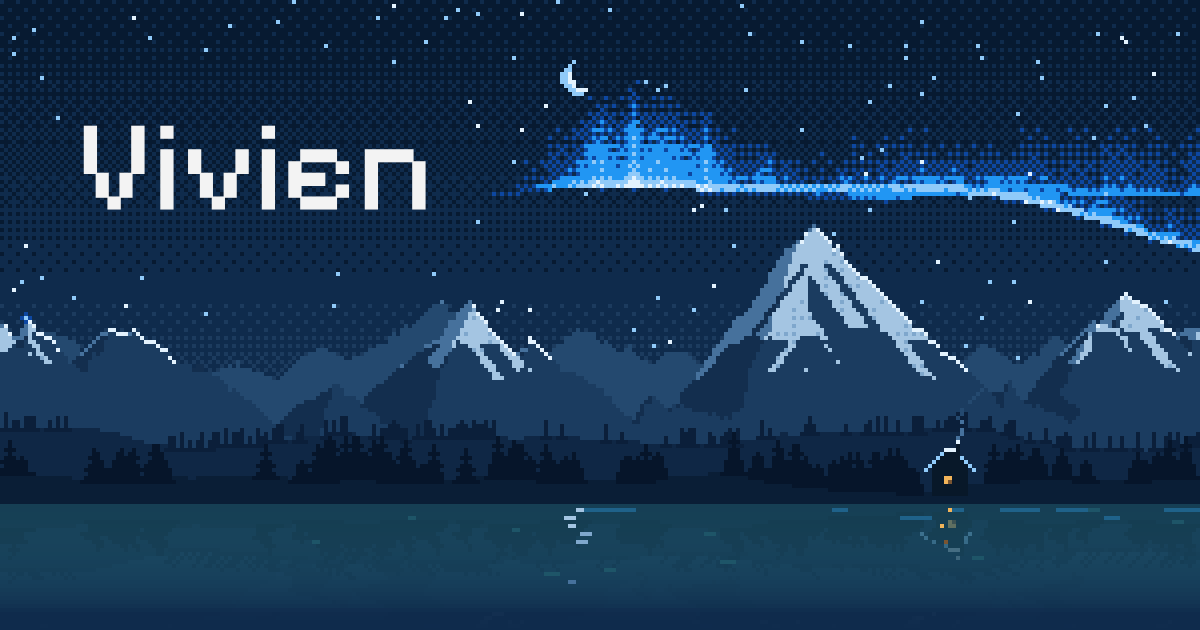
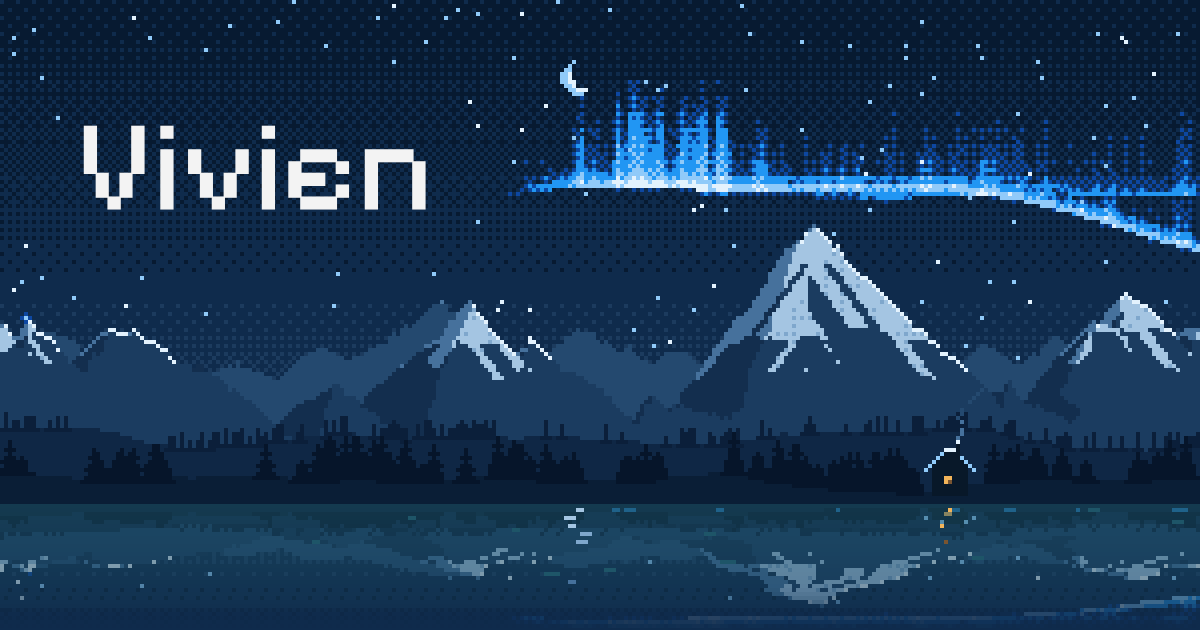
Redraw the aurora, the fjord's mirror and the shore's snow
- Aurora: curtains hung with fine vertical rays that drift along the
  folds, a brighter two-pixel hem, each ray's height following its
  brightness, instead of a dithered haze.
- Fjord: on wide screens the mirror folds its rows tighter so the
  peaks and their snow reach the shallow water, and the reflection
  holds its strength before fading into the page colour.
- Shore: low rolling drifts shaded in clean bands with dithered seams,
  a lit lower drift crest here and there, pines seated on the drift
  beneath them with a short moon shadow, instead of one flat slab.
- Regenerated og.png; DESIGN.md records all three.

Claude-Session: https://claude.ai/code/session_01W1WJo8FCiKhhtBsWrrJKbP

diff --git a/scene.js b/scene.js
@@ -326,11 +326,12 @@
           + Math.sin(u * 6.0 + t * 0.3 + k * 2) * horizon * 0.08
           + Math.sin(u * 17.0 - t * 0.6) * horizon * 0.02;
         bottom[x] = bt;
-        // broad folds that sway slowly, with a faint fine shimmer; brighter folds reach higher
+        // a curtain: broad folds that sway slowly, hung with fine vertical rays that drift along
+        // them; a bright ray reaches higher, so the top edge is a comb of streaks, not a haze
         const fold = nRay(u * 7 + t * 0.12 + k * 90);
-        const streak = 0.45 + 0.55 * Math.pow(nRay(x * 0.38 + t * 0.25 + k * 30), 1.5);
-        rays[x] = (0.4 + 0.6 * fold) * streak;
-        len[x] = horizon * (0.1 + 0.2 * fold);
+        const ray = Math.pow(nRay(x * 0.55 + t * 0.35 + k * 30), 2.2);
+        rays[x] = (0.35 + 0.65 * fold) * (0.3 + 0.7 * ray);
+        len[x] = horizon * (0.05 + (0.1 + 0.17 * fold) * (0.25 + 0.75 * Math.sqrt(ray)));
         if (bt - horizon * 0.4 < aurTop) aurTop = bt - horizon * 0.4;
         if (bt + 1 > aurBot) aurBot = bt + 1;
       }
@@ -346,9 +347,10 @@
       if (d < -1 || d > horizon * 0.4) continue;
       const len = aurCols.len[k][x];
       // light pools at the hem and thins upward, so the top dissolves into the sky
-      const prof = d < 0 ? 0.45 : Math.max(0, 1 - d / len);
-      const hem = d >= 0 && d < 2 ? 0.3 : 0;
-      const v = env * (aurCols.rays[k][x] * Math.pow(prof, 1.6) + hem) * (k === 0 ? 0.9 : 0.55);
+      const prof = d < 0 ? 0.4 : Math.max(0, 1 - d / len);
+      // the lower hem is the brightest line of the curtain, one step brighter than its rays
+      const hem = d >= 0 && d < 2 ? 0.45 : d >= 2 && d < 4 ? 0.15 : 0;
+      const v = env * (aurCols.rays[k][x] * Math.pow(prof, 1.1) + hem) * (k === 0 ? 0.9 : 0.55);
       if (v > best) best = v;
     }
     return best;
@@ -380,11 +382,13 @@
 
     // the fjord: a rippling mirror, fjord-tinted, settling into the page colour
     const depthRows = H - horizon;
+    const mirror = Math.max(1.15, (horizon * 0.6) / (depthRows * 0.85));
     for (let y = horizon; y < H; y++) {
       const d = (y - horizon) / depthRows;
       const wob = Math.round(Math.sin((y - horizon) * 0.9 + t * 1.8) * (0.6 + d * 2.2));
-      const sy = Math.max(0, horizon - 1 - Math.round((y - horizon) * 1.15));
-      const fade = (horizon < H * 0.7 ? 0.3 : 0.4) * Math.pow(1 - d, 1.5);
+      // a shallow fjord (wide screens) folds the mirror tighter so the peaks still reach it
+      const sy = Math.max(0, horizon - 1 - Math.round((y - horizon) * mirror));
+      const fade = horizon < H * 0.7 ? 0.32 * Math.pow(1 - d, 1.1) : 0.5 * (1 - smooth(0.6, 1, d));
       const tint = Math.pow(Math.max(0, 1 - d / 0.82), 0.6);
       const f1 = 1 - fade;
       const wr = (C.deep[0] + (C.fjord[0] - C.deep[0]) * tint) * f1;
@@ -457,29 +461,51 @@
     const sctx = shoreCanvas.getContext("2d", { alpha: false });
     const im = sctx.createImageData(sw, sh);
     const b = new Uint32Array(im.data.buffer);
-    const ground = [];
-    for (let x = 0; x < sw; x++) ground[x] = Math.round(sh * 0.72 - fbm(nNear, x * 0.03 + 200, 3) * sh * 0.18);
-    // page field above, a low snowbank, pines standing in it
+    // the bank rolls in low drifts; a second, lower crest catches the light here and there
+    const ground = [], crest = [];
+    for (let x = 0; x < sw; x++) {
+      ground[x] = Math.round(sh * 0.7 - fbm(nNear, x * 0.045 + 200, 3) * sh * 0.16 - Math.sin(x * 0.11) * 1.2);
+      crest[x] = ground[x] + 4 + Math.round(fbm(nSnow, x * 0.07 + 30, 2) * (sh - ground[x]) * 0.5);
+    }
+    const SNOW = [C.snowLit, C.snowMid, C.snowShade];
+    // page field above, a ridge-blue back hill, the snowbank
     for (let y = 0; y < sh; y++) for (let x = 0; x < sw; x++) {
       let c = C.deep;
       const hill = Math.round(sh * 0.5 - fbm(nMid, x * 0.02 + 90, 3) * sh * 0.22);
       if (y >= hill) c = C.ridge;
-      if (y >= ground[x]) c = y - ground[x] < 1 ? C.frost : C.snowLit;
-      if (y >= ground[x] + 3) c = C.snowMid;
-      if (y >= ground[x] + 6) c = C.snowShade;
+      const g = y - ground[x];
+      if (g >= 0) {
+        // moonlit on top, shading in clean bands into the night toward the foot of the page;
+        // only the seams between bands are dithered
+        const v = Math.pow((g - 1) / Math.max(1, sh - ground[x] - 1), 0.8) * 3.2;
+        c = g === 0 ? C.frost : SNOW[Math.max(0, Math.min(2, Math.floor(v + (dither(x, y) - 0.5) * 0.3)))];
+        // the drift crest: a lit lip, a shaded fall below it
+        const cr = y - crest[x];
+        if (crest[x] < sh - 2 && fbm(nSnow, x * 0.09 + 5, 2) > 0.48) {
+          if (cr === 0) c = C.snowLit;
+          else if (cr === 1 || (cr === 2 && dither(x, y) > 0.5)) c = C.snowShade;
+        }
+      }
       b[y * sw + x] = pack(c);
     }
+    // pines standing in the snow, each casting a short moon shadow down-slope to its right
     const r = rng(77);
     for (let x = 1; x < sw - 1; x++) {
       if (r() > 0.1 + 0.5 * smooth(0.35, 0.7, fbm(nNear, x * 0.05 + 9, 2))) continue;
       const h = 5 + Math.floor(r() * sh * 0.4);
       const top = ground[x] + 1 - h;
+      for (let dx = 2; dx < 2 + Math.round(h * 0.35); dx++) {
+        const px = x + dx;
+        if (px < sw && b[ground[px] * sw + px] === pack(C.frost)) b[ground[px] * sw + px] = pack(C.snowShade);
+      }
       for (let k = 0; k <= h; k++) {
         const hw = Math.floor((k / h) * 3 + ((k % 3) === 0 ? 0 : 0.6));
         for (let dx = -hw; dx <= hw; dx++) {
-          const px = x + dx, py = top + k;
-          if (px < 0 || px >= sw || py < 0 || py >= sh) continue;
-          b[py * sw + px] = pack(C.pine);
+          const px = x + dx;
+          if (px < 0 || px >= sw) continue;
+          // the skirt reaches down to the drift under it, so no tree floats over a hollow
+          const y1 = k === h ? Math.max(top + k, ground[px]) : top + k;
+          for (let py = top + k; py <= y1 && py < sh; py++) if (py >= 0) b[py * sw + px] = pack(C.pine);
         }
       }
     }

diff --git a/index.html b/index.html
@@ -12,7 +12,7 @@
   <meta property="og:site_name" content="Vivien">
   <meta property="og:description" content="Mechanical engineer, formerly a musician and programmer.">
   <meta property="og:url" content="https://meowzerskittycat.github.io/">
-  <meta property="og:image" content="https://meowzerskittycat.github.io/og.png?v=94efaa53">
+  <meta property="og:image" content="https://meowzerskittycat.github.io/og.png?v=315dd00a">
   <meta property="og:image:type" content="image/png">
   <meta property="og:image:width" content="1200">
   <meta property="og:image:height" content="630">

diff --git a/DESIGN.md b/DESIGN.md
@@ -197,7 +197,7 @@ Square and hard-edged throughout (`rounded.none`). Both canvases render with `im
 The page has no buttons, inputs, navigation, or cards, by product decision (no links). The recurring pieces are scene, type, the ledger, and pixel marks.
 
 ### Pixel Night Scene (signature)
-- **What:** a full-bleed canvas in the hero, drawn procedurally from fixed seeds so every visit shows the same place: stars, a crescent moon, two drifting aurora curtains (broad slow folds with faint vertical streaks, brightest at a lit hem, dissolving upward into the sky through dither so the top never forms a hard spiky edge), a hazy back range, an alpine range with one tall horn, shouldered peaks, an uneven snowline, rock ribs and snow couloirs, forested foothills with a comb of small pines, a pine shore, one cabin with roof snow, a lit window and a chimney, and the reflecting fjord. The sky is clear: no snow falls in the hero, so nothing crosses the name.
+- **What:** a full-bleed canvas in the hero, drawn procedurally from fixed seeds so every visit shows the same place: stars, a crescent moon, two drifting aurora curtains (broad slow folds hung with fine vertical rays that drift along them, brightest at a lit two-pixel hem; each ray's height follows its brightness, so the top reads as a comb of streaks thinning into the sky through dither rather than a haze), a hazy back range, an alpine range with one tall horn, shouldered peaks, an uneven snowline, rock ribs and snow couloirs, forested foothills with a comb of small pines, a pine shore, one cabin with roof snow, a lit window and a chimney, and the reflecting fjord: a mirror of the whole range, its rows folded tighter on wide screens (where the fjord is shallow) so the peaks and their snow still reach the water, fading into the page colour by the hero's foot. The sky is clear: no snow falls in the hero, so nothing crosses the name.
 - **Rendering:** low-resolution buffer (about 320 art pixels across on desktop) upscaled by an exact whole number (the canvas element is sized to W x scale, overhanging its box by under one art pixel), so every art pixel is the same size; the art scale is published to CSS as `--scene-px` (and as `--ui-px`, capped at 4px, for the icons, meter, band markers and row rules so they stay in proportion to the text), and the nameplate's padding is rounded to it so the name's pixels sit on the art's. Per frame, the aurora's column terms are computed once and only its band of rows is evaluated; the sky's dither colours are precomputed per row (about 2ms a frame on desktop).
 - **Aurora placement:** on landscape screens the curtain begins a few art pixels to the right of the name's ink, measured after the font loads, so the two never touch.
 - **Stars:** scattered over open sky only: never on the terrain, around the moon, or in or right beside the name's letters, where a lone pixel would read as a flaw in the type.
@@ -209,7 +209,7 @@ The page has no buttons, inputs, navigation, or cards, by product decision (no l
 - **Accessibility:** the canvas is `role="img"` with a one-sentence description of the scene.
 
 ### Shore
-- A full-bleed canvas closing the page, in a plain `div` (not an empty footer landmark): the night field over a ridge-blue back hill, a snowbank stepped from frost through lit, mid, and shaded snow, and dark pines standing in it, with snow still falling over it at two depths (far flakes behind the pines). Animated only while on screen, decorative and hidden from assistive tech.
+- A full-bleed canvas closing the page, in a plain `div` (not an empty footer landmark): the night field over a ridge-blue back hill, a snowbank rolling in low drifts (a frost edge, then lit, mid, and shaded snow in clean bands with dithered seams, and the lit lip and shaded fall of a lower drift crest here and there), dark pines standing in it with their skirts reaching the drift beneath and a short shaded-snow moon shadow to their right, with snow still falling over it at two depths (far flakes behind the pines). Animated only while on screen, decorative and hidden from assistive tech.
 
 ### Nameplate
 - Display-size snow text, the name alone, set directly over the sky at the left. No role line, glyph, backing panel, or scrim. In portrait it moves to the hero's foot, over the dark water, clamp(1.5rem, 5vh, 3rem) above it, so the name stays close to the first ledger row.
